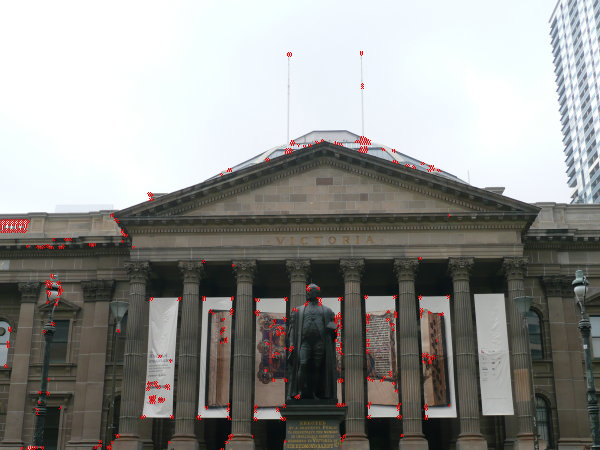
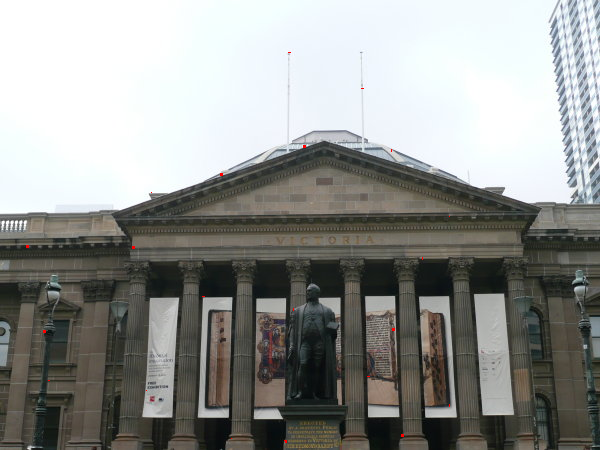
fixed ANMS

diff --git a/Phase1/Code/Wrapper.py b/Phase1/Code/Wrapper.py
@@ -55,9 +55,6 @@ def ANMS(cornerScoreImage):
 
 			#peak local max
 			if(cornerScoreImage[i][j] > 0.01*cornerScoreImage.max()): #set everything lower than threshold to 0
-			
-
-
 				corner = [i, j, cornerScoreImage[i][j]]
 				strong.append(corner)
 			else:
@@ -66,13 +63,14 @@ def ANMS(cornerScoreImage):
 	print(strong)
 
 
-
+	radius = [np.inf] * len(strong)
 	for n in range(len(strong)):
 		x = strong[n][0]
 		y = strong[n][1]
 		score = strong[n][2]
 
 		for m in range(len(strong)):
+
 
 			if(m != n):
 				i = strong[m][0]
@@ -81,16 +79,12 @@ def ANMS(cornerScoreImage):
 
 				if(score > compare_score):
 					distance = ((x - i) ** 2) + ((y-j)**2)
-
-					if(distance < radius):
-						radius = distance
-		coor = [x,y,radius]
+				if(distance < radius[n]):
+					radius[n] = distance
+		coor = [x,y,radius[n]]
 		all_r.append(coor)
-
-
 	print("ALL THE RADIUSES ")
-	
-
+	print(all_r)
 
 	'''for x in range(size):
 		for y in range(size):
@@ -113,13 +107,11 @@ def ANMS(cornerScoreImage):
 				all_r.append(coor)'''
 
 
-	all_r.sort(key=lambda x:x[2])
-	print(all_r)
+	all_r.sort(key=lambda x:x[2], reverse=True)
 
 
-	print("N BEST ")
-	print(cornerScoreImage)
-	return all_r
+
+	return (all_r[:100])
 
 
 
@@ -130,33 +122,33 @@ def CornerDetection():
 
 
 	gray = cv2.cvtColor(img1,cv2.COLOR_BGR2GRAY)
-
 	gray = np.float32(gray)
+	
 	dst = cv2.cornerHarris(gray,2,3,0.04)
 	
 	#result is dilated for marking the corners, not important
 	dst = cv2.dilate(dst,None)
 
 	best = ANMS(dst)
-
-
-
-	print("PUUTTING ON IMAGE ", len(best))
-	for point in best:
+	print("BEST")
+	print(best)
+	for point in range(len(best)):
 		
-		x = point[0]
-		y = point[1]
-		r = point[2]
+		x = best[point][0]
+		y = best[point][1]
+		r = best[point][2]
+	
+
+
 
 		
 		img1[x][y] = [0,0,255] 
-		for j in best:
-			if ((((x - j[0])**2) + ((y - j[1]) **2) ) < r):
-				best.remove(j)
+	
+
 
 	cv2.imwrite("Nbest.png", img1)
 
-#CornerDetection()
+CornerDetection()
 
 
 """
@@ -212,7 +204,7 @@ Save Feature Matching output as matching.png
 """
 
 #input image 1 point and sum of all image 2 points ("are they talking about features?")
-def FeatureMatching():
+def FeatureMatching(kp1, kp2):
 	img1 = cv2.imread('../Data/Train/Set1/1.jpg')
 	img2 = cv2.imread('../Data/Train/Set1/2.jpg')
 
@@ -239,7 +231,16 @@ def FeatureMatching():
 
 	cv2.imwrite("Matches.png", img3)
 
-FeatureMatching()
+
+def match(kp1, kp2):
+	matches = []
+
+	#for point in kp1:
+
+
+
+
+#FeatureMatching()
 
 
 
